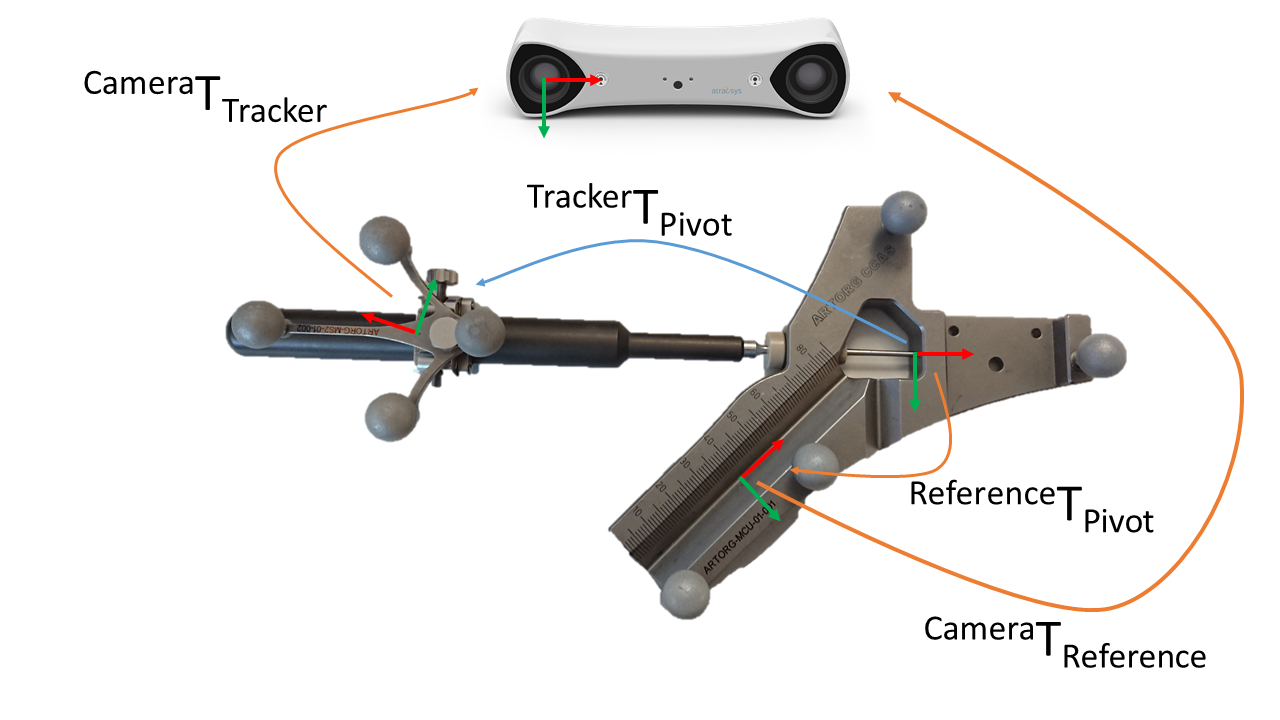
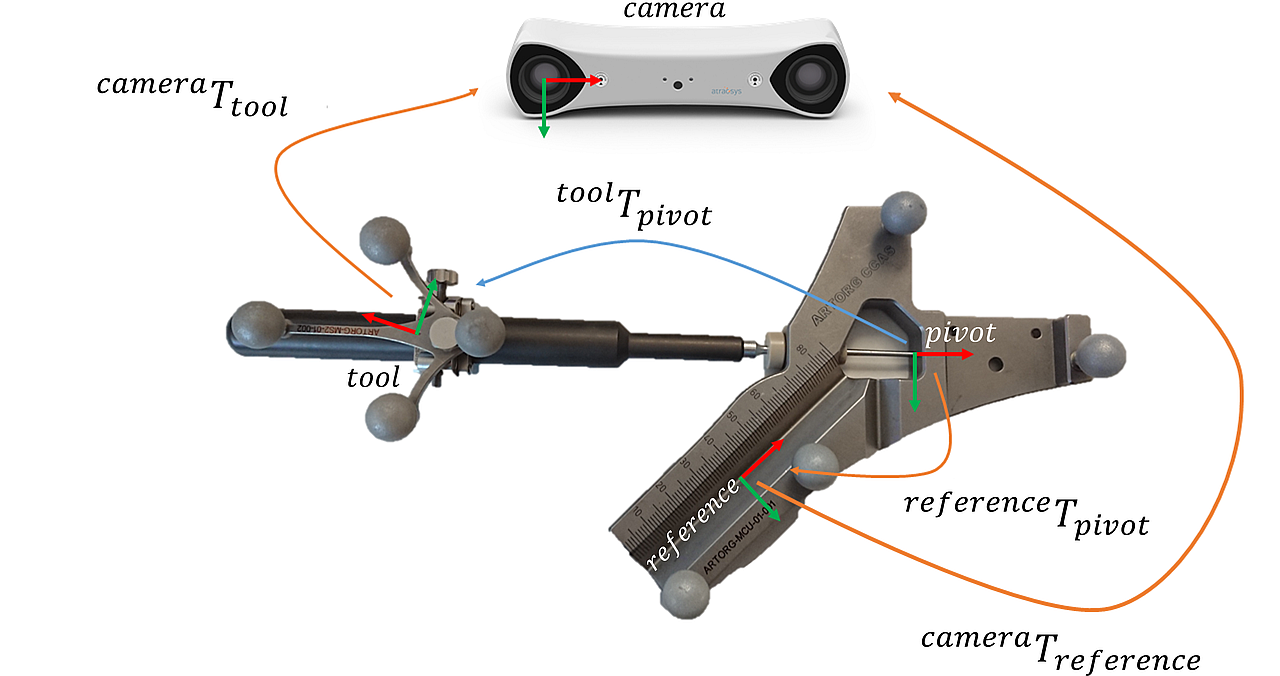
docs: add COS names on calibdevice picture

diff --git a/docs/assignment.toolcalibration.rst b/docs/assignment.toolcalibration.rst
@@ -78,7 +78,7 @@ Implement the code to calibrate an instrument using a calibration device.
 Theory
 ======
 
-.. image:: img/calibdevice_v1.png
+.. image:: img/calibdevice.png
 
 The following transformations are given:
 
